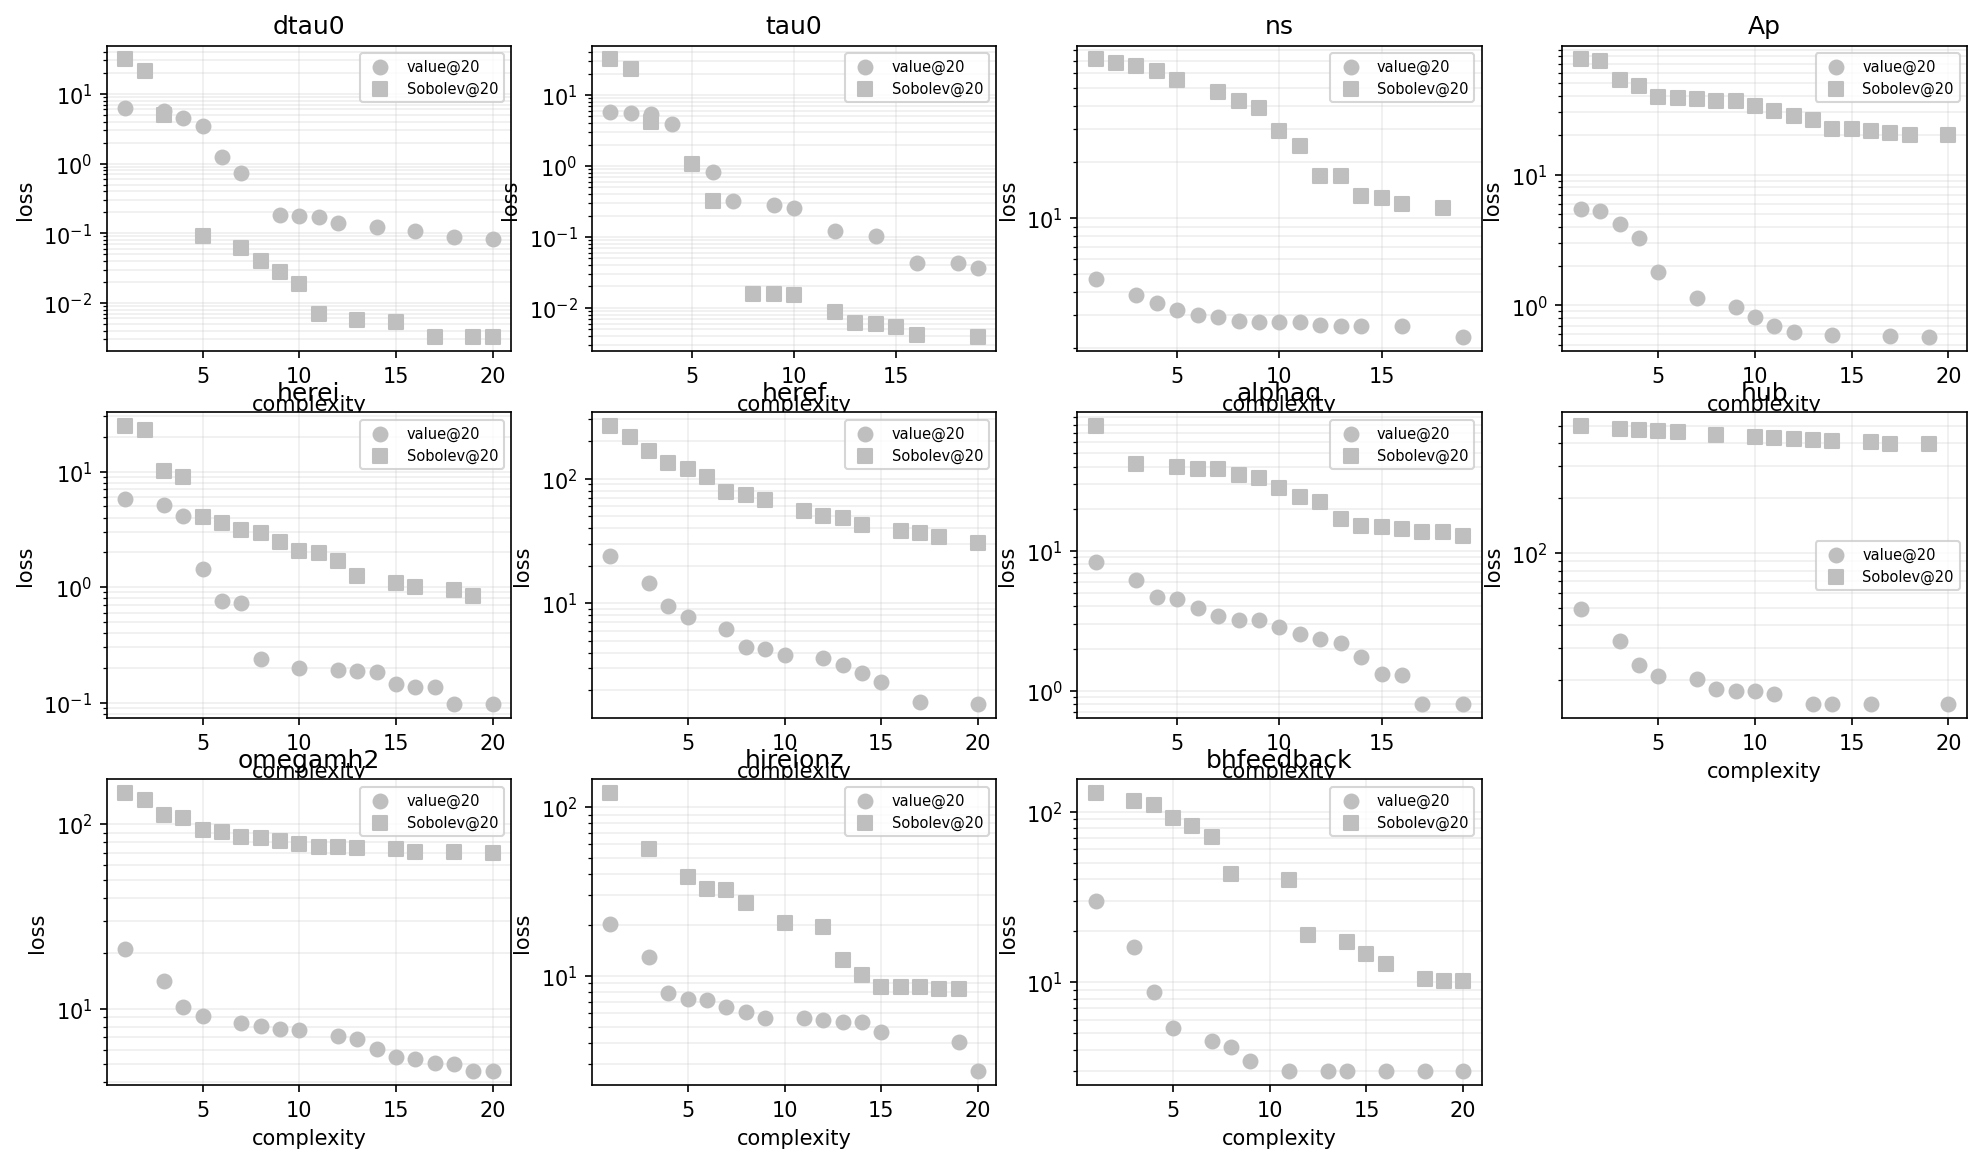
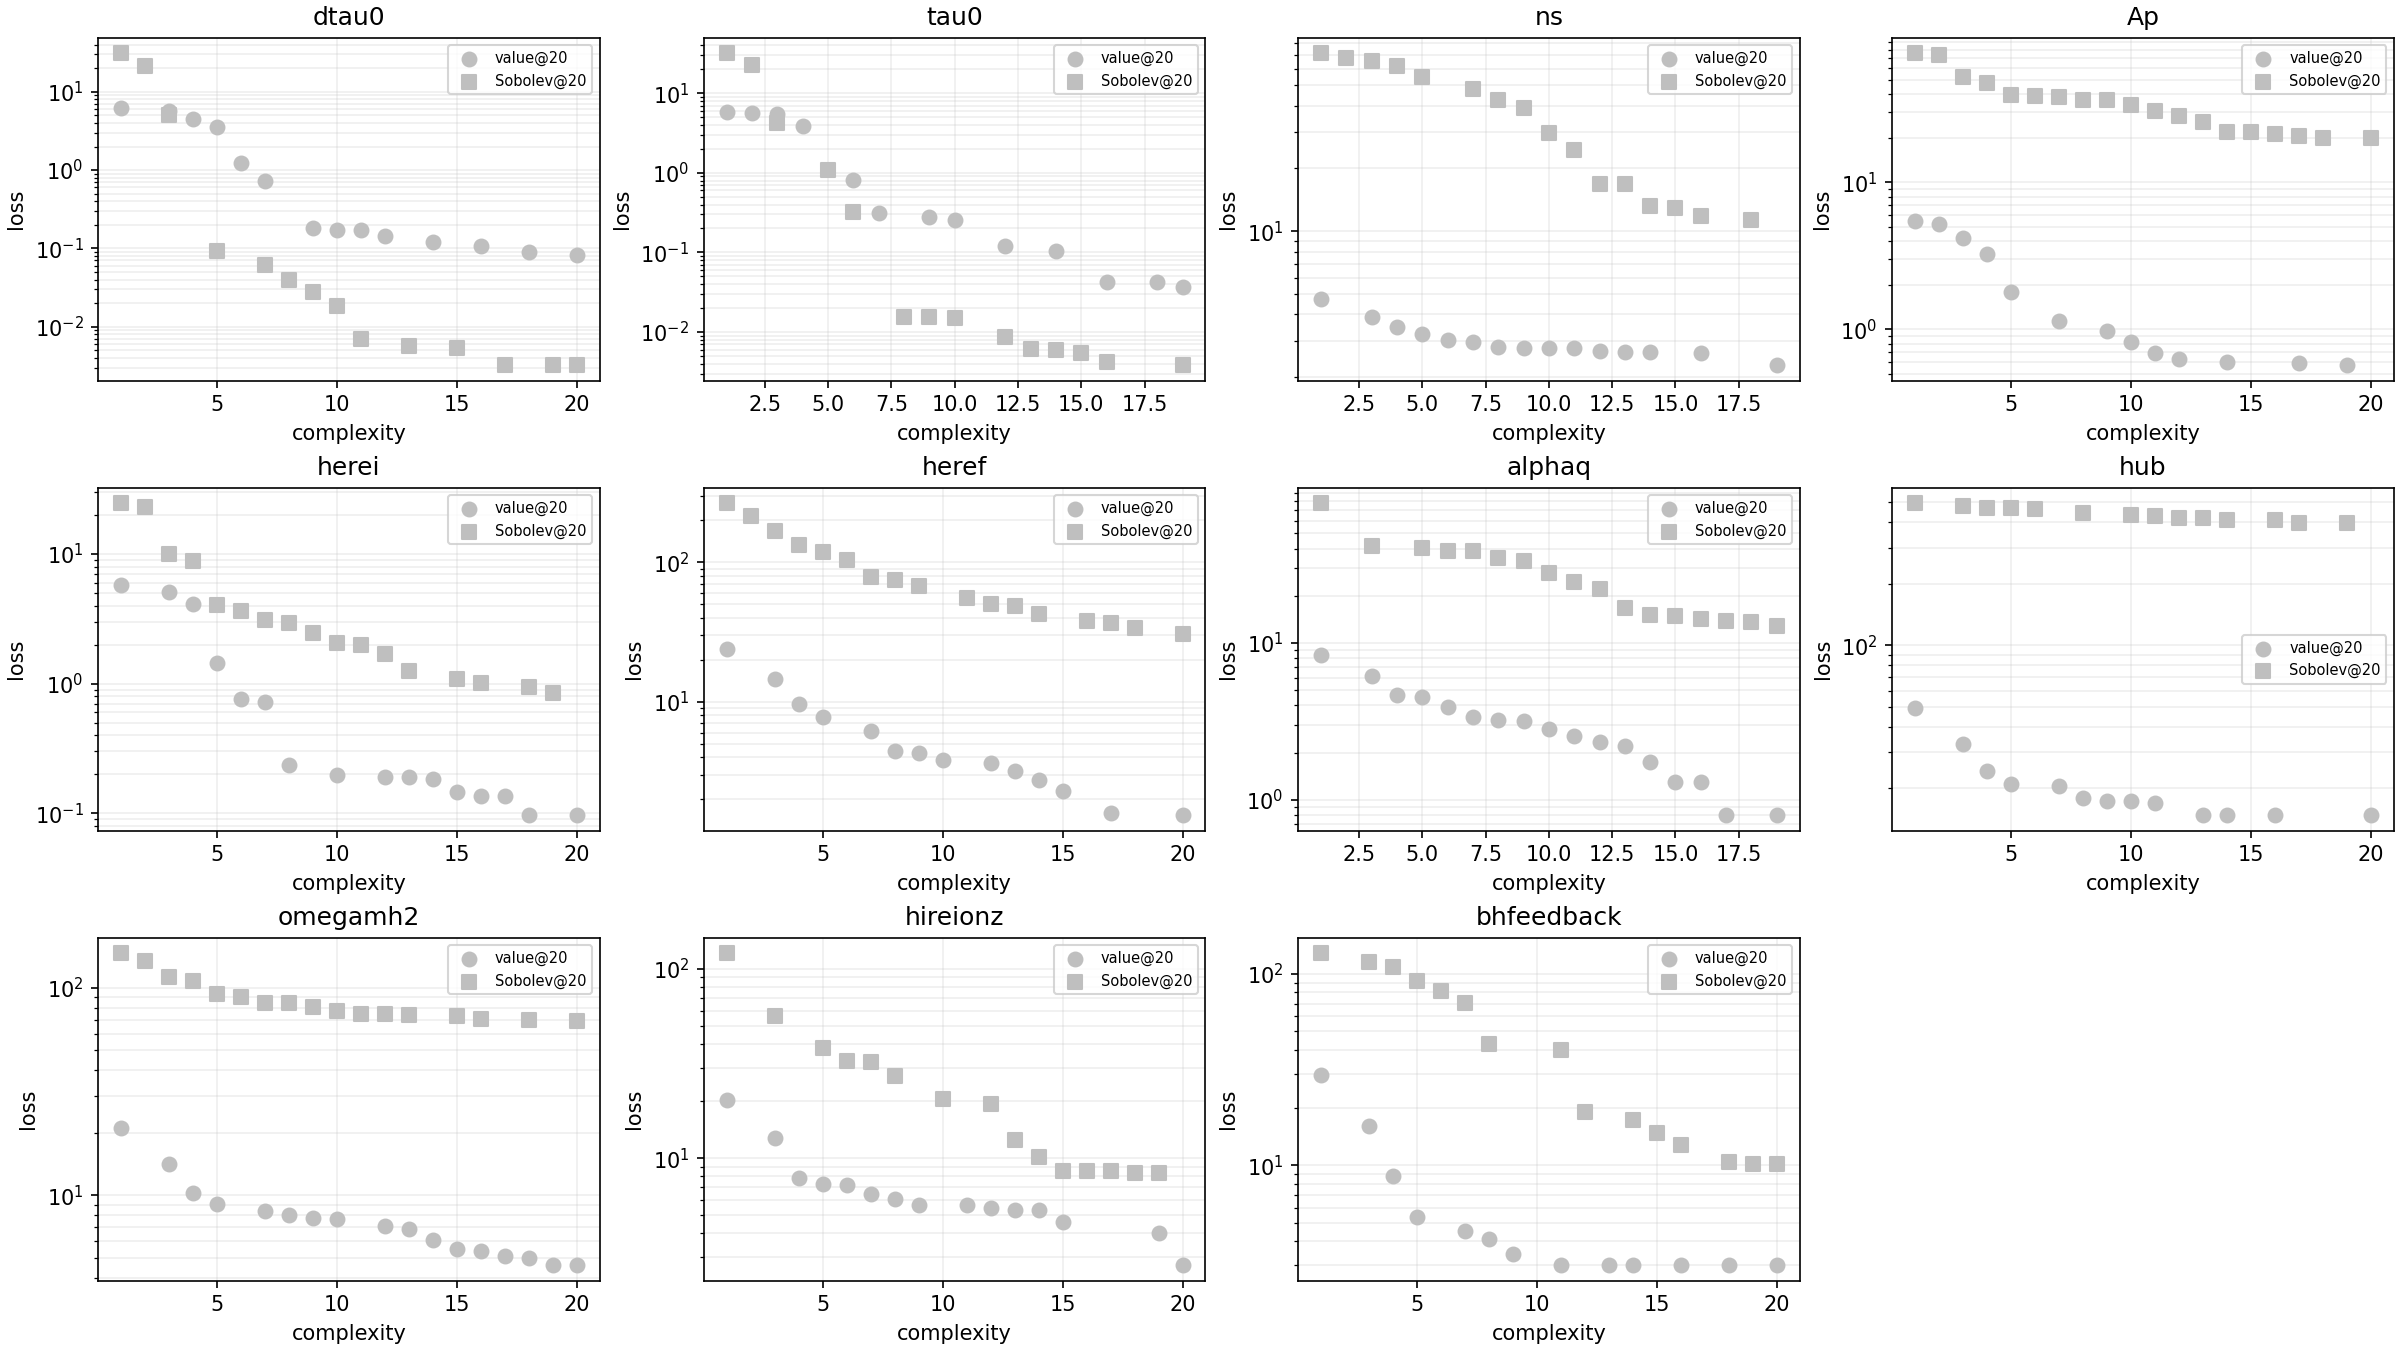
fix: constrained layout in render_grid (titles no longer collide with x-labels)

diff --git a/src/priya_forecast/pareto_diag.py b/src/priya_forecast/pareto_diag.py
@@ -43,7 +43,7 @@ def render_grid(fronts_by_param, out_path, *, gate_tol=GATE_TOL,
     params = list(param_order) if param_order else list(fronts_by_param)
     nrow = int(np.ceil(len(params) / ncol))
     fig, axes = plt.subplots(nrow, ncol, figsize=(4 * ncol, 3 * nrow),
-                             squeeze=False)
+                             squeeze=False, layout="constrained")
     cmap = plt.get_cmap("RdYlGn_r")
     norm = mcolors.TwoSlopeNorm(vmin=0.0, vcenter=gate_tol, vmax=1.0)
     last_sc = None
@@ -82,6 +82,6 @@ def render_grid(fronts_by_param, out_path, *, gate_tol=GATE_TOL,
         cbar.set_label("grad_err  (median |d_eq / d_GP - 1|, clipped at 1)")
         cbar.ax.axhline(gate_tol, color="k", lw=1.2)
 
-    fig.savefig(out_path, dpi=150, bbox_inches="tight")
+    fig.savefig(out_path, dpi=150)
     plt.close(fig)
     return out_path
